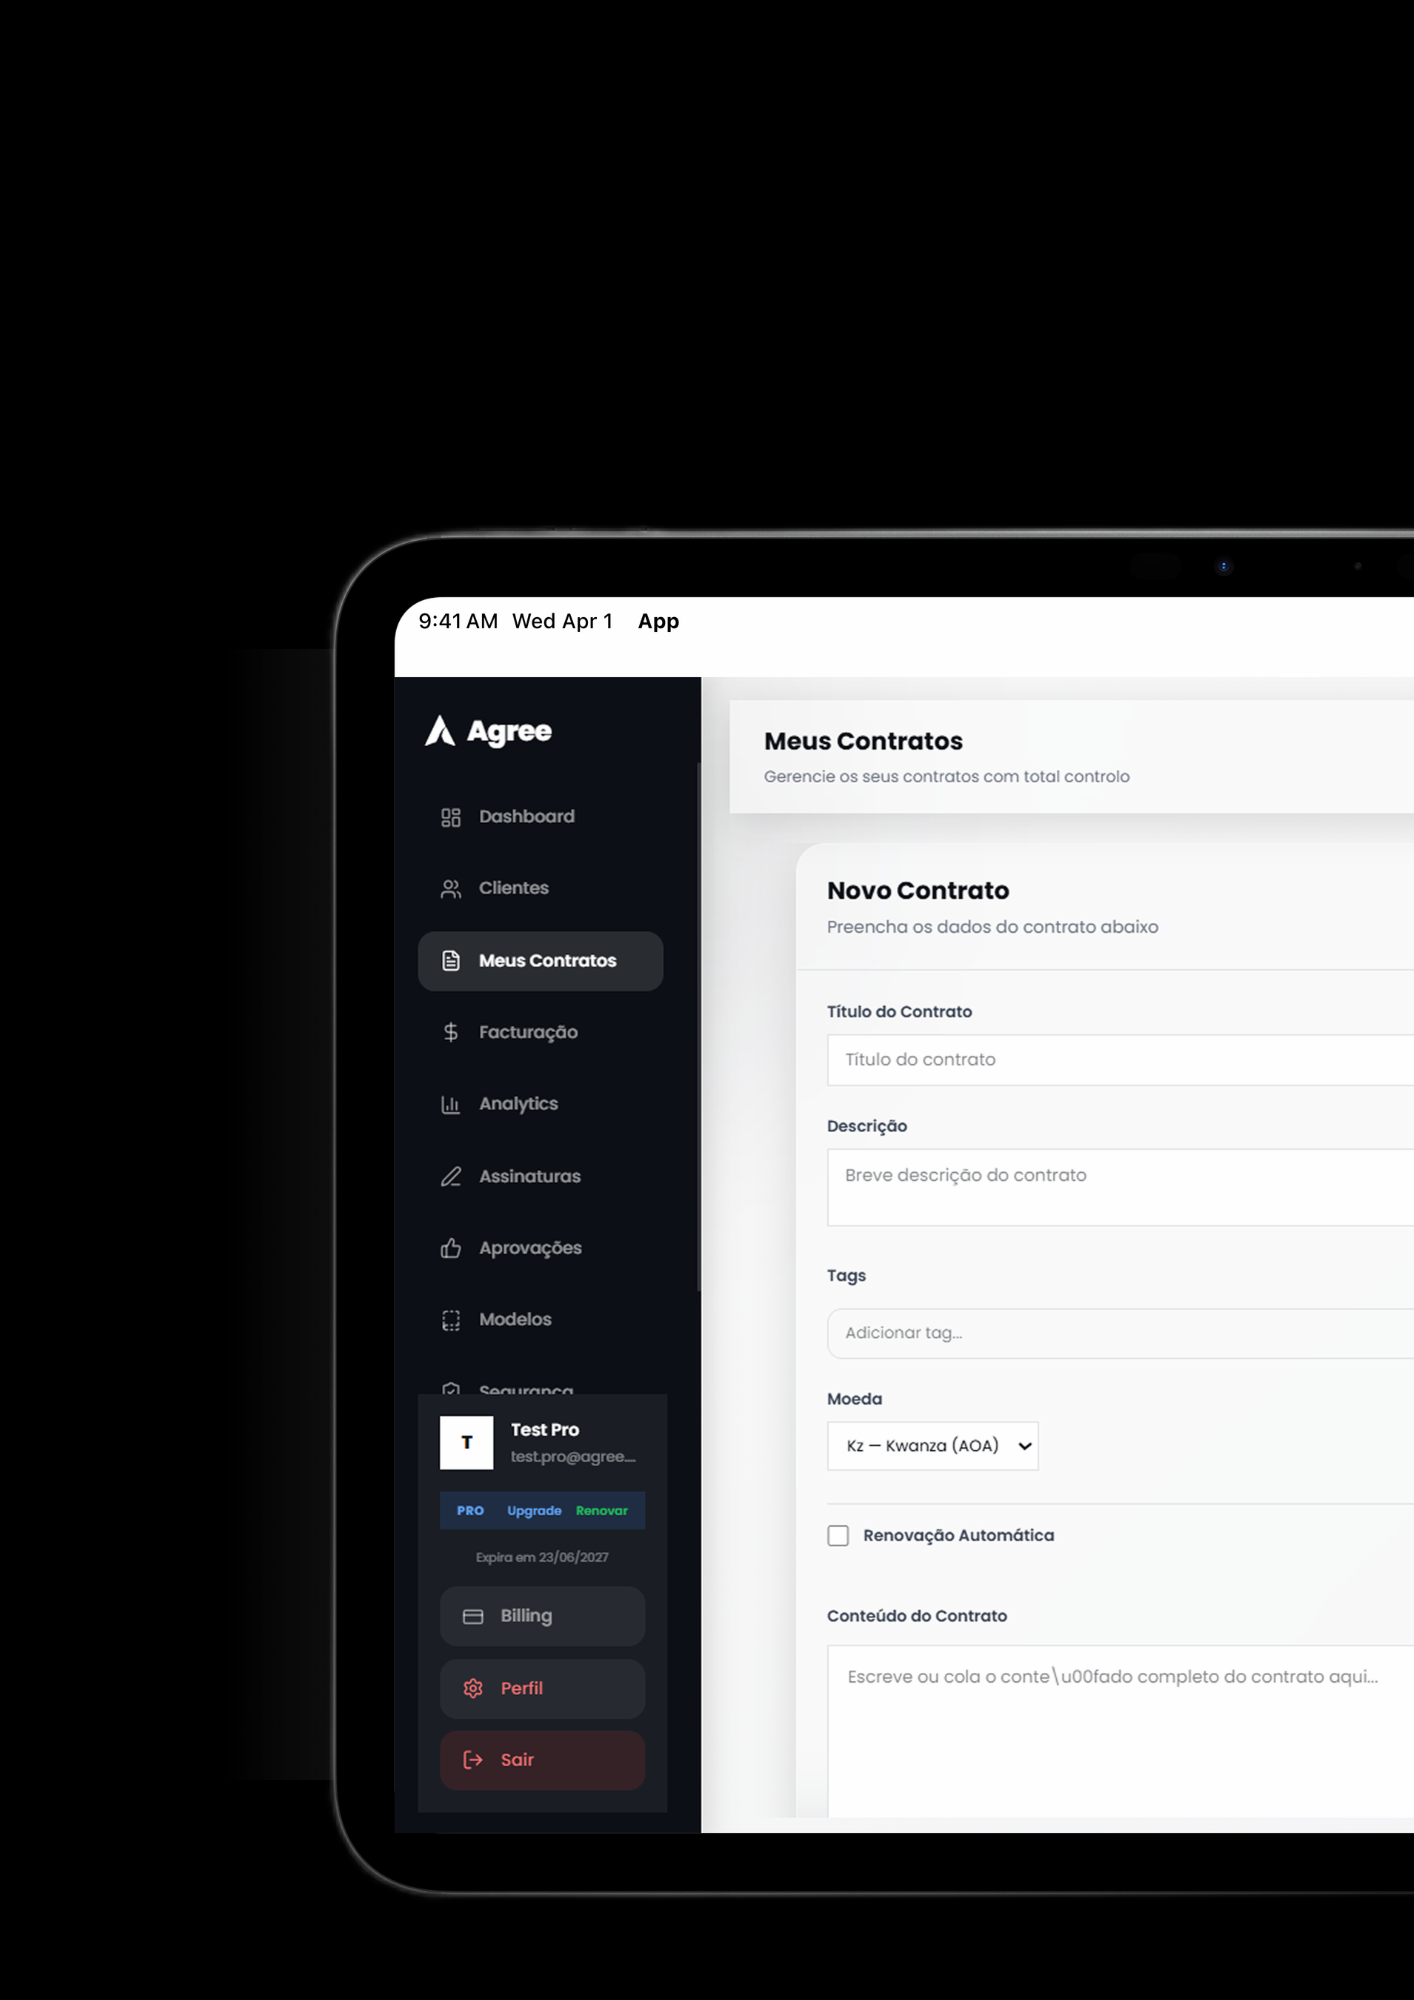
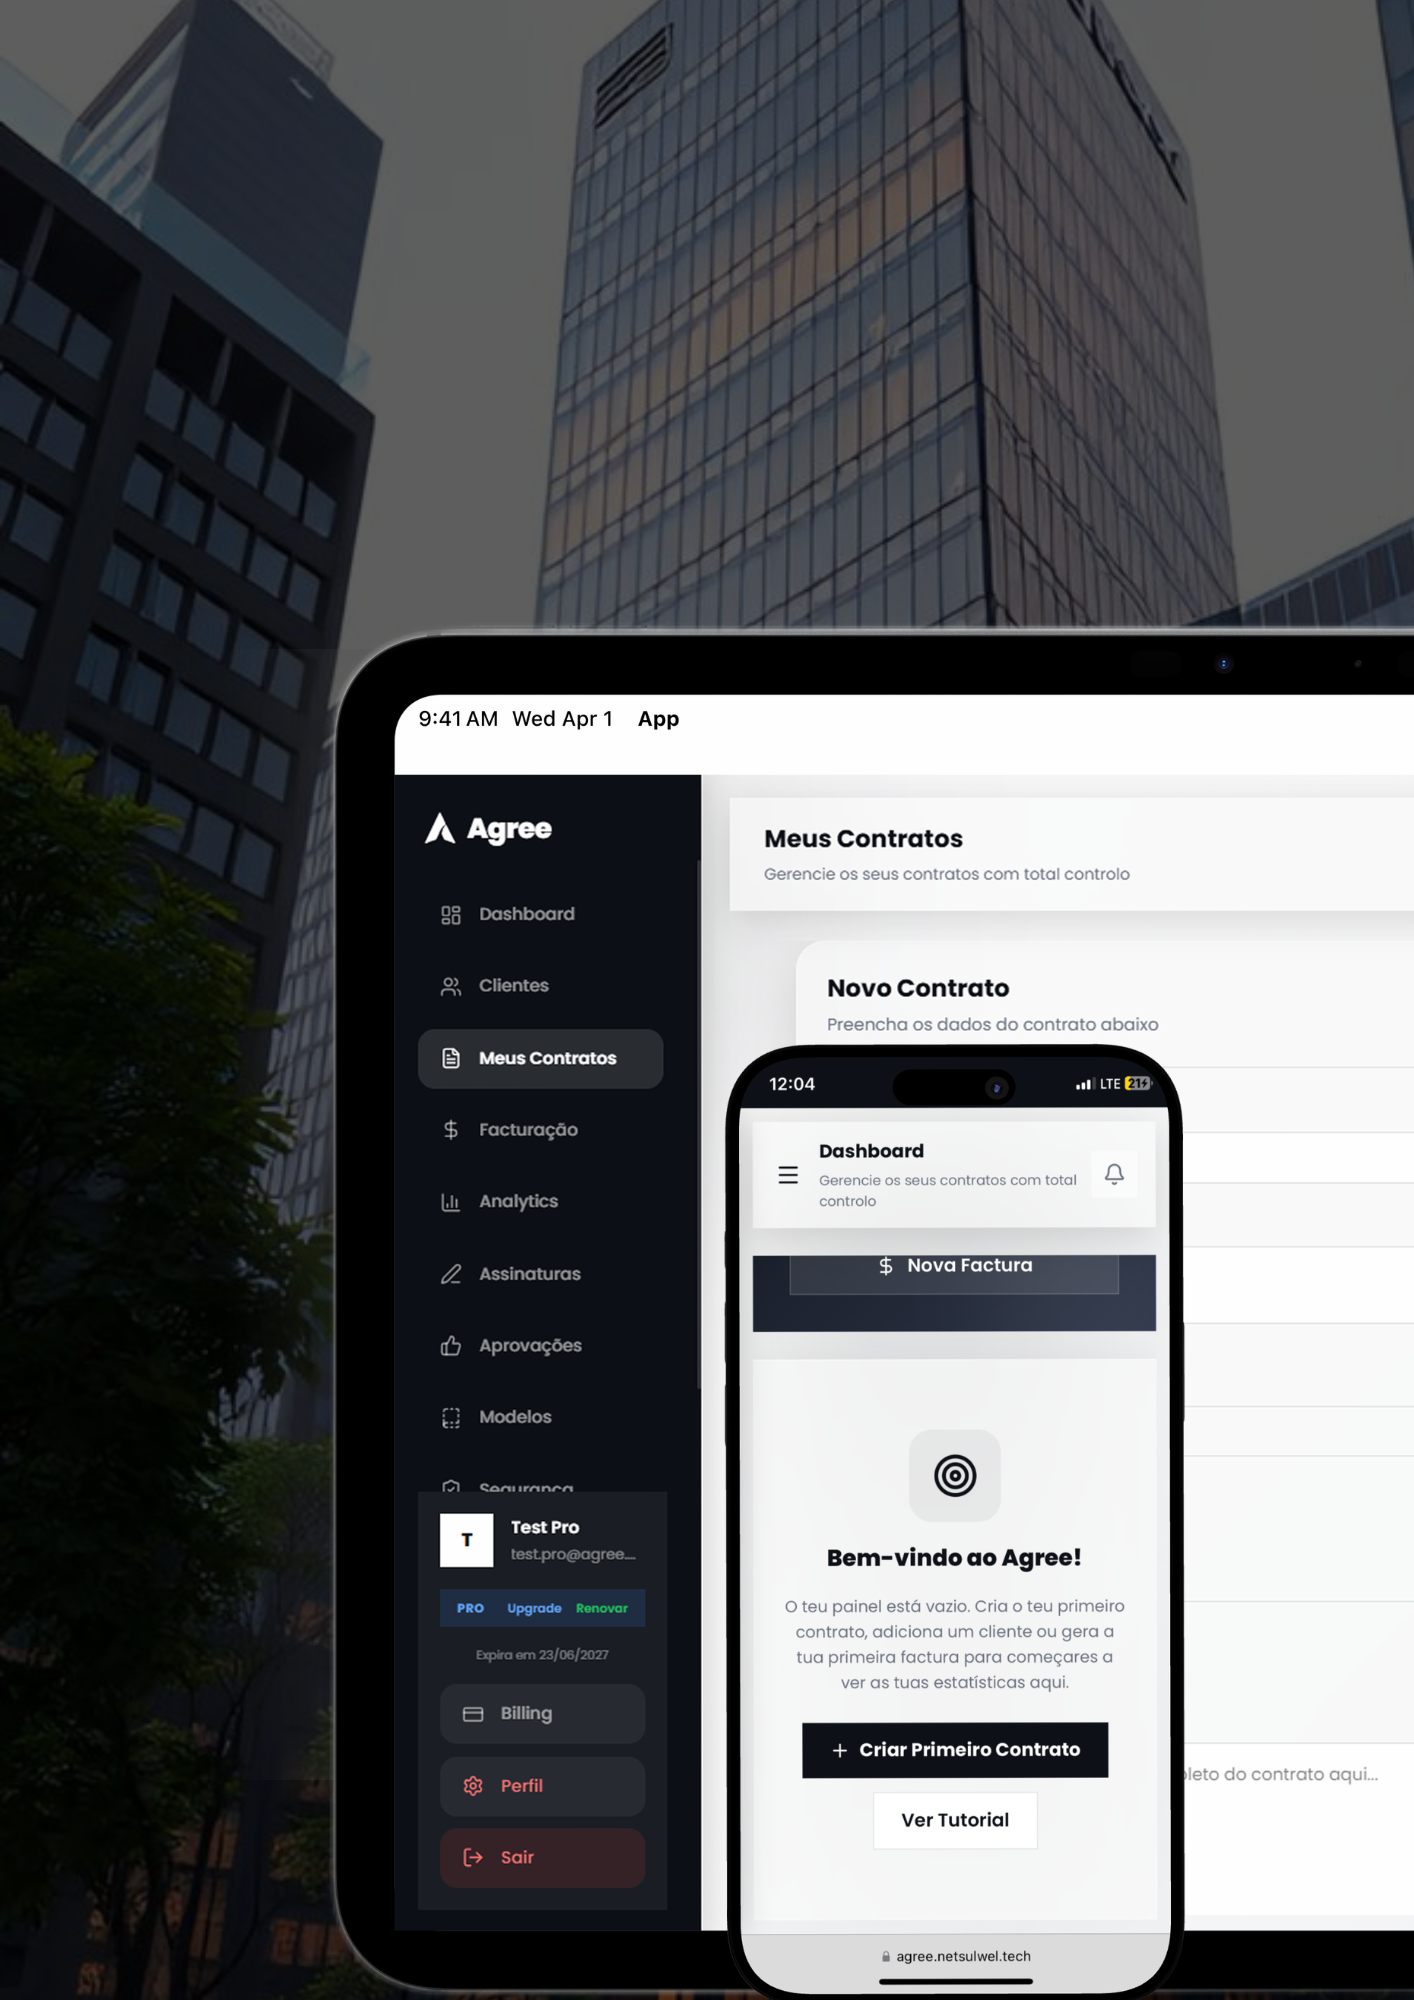
SEO: clarify app purpose on landing page for Google OAuth

diff --git a/src/components/LandingPage.tsx b/src/components/LandingPage.tsx
@@ -373,6 +373,12 @@ const LandingPage = () => {
         <div style={{ maxWidth: 1400, margin: '0 auto', padding: '0 24px' }}>
           <div className="hero-grid" style={{ display: 'grid', gridTemplateColumns: '1fr 1fr', gap: 64, alignItems: 'center', minHeight: '76vh' }}>
             <motion.div variants={heroContainer} initial="hidden" animate="show">
+              <motion.div variants={heroItem} style={{ marginBottom: 20 }}>
+                <span style={{ display: 'inline-block', padding: '7px 16px', border: '1px solid #e8eaed', background: '#fff', fontSize: 11, fontWeight: 700, letterSpacing: 1.4, textTransform: 'uppercase', color: '#0d1117', boxShadow: '0 2px 10px rgba(0,0,0,0.05)' }}>
+                  Plataforma de Gestão de Contratos
+                </span>
+              </motion.div>
+
               <motion.h1 className="hero-h" variants={heroItem} style={{ marginBottom: 22 }}>
                 <span style={{ display: 'block', overflow: 'hidden' }}><motion.span variants={heroLine} className="sheen-text" style={{ display: 'block' }}>O fim das</motion.span></span>
                 <span style={{ display: 'block', overflow: 'hidden' }}><motion.span variants={heroLine} className="sheen-text" style={{ display: 'block' }}>pastas de</motion.span></span>
@@ -380,7 +386,8 @@ const LandingPage = () => {
               </motion.h1>
 
               <motion.p variants={heroItem} className="sheen-text" style={{ fontSize: 17, lineHeight: 1.75, maxWidth: 430, marginBottom: 36, fontWeight: 400 }}>
-                Centraliza o portfólio, automatiza aprovações e nunca mais perdes um prazo de renovação.
+                O Agree é a plataforma de gestão de contratos que centraliza o teu portfólio,
+                automatiza aprovações, assinatura digital e nunca mais perdes um prazo de renovação.
               </motion.p>
 
               <motion.div variants={heroItem} className="hero-btns" style={{ display: 'flex', flexWrap: 'wrap', gap: 12, marginBottom: 52 }}>

diff --git a/index.html b/index.html
@@ -7,7 +7,28 @@
     <link rel="alternate icon" href="/favicon.ico" />
     <meta name="theme-color" content="#0d1117" />
     <meta name="msapplication-TileColor" content="#0d1117" />
+    <meta name="description" content="Agree é uma plataforma de gestão de contratos: cria, armazena, assina digitalmente e monitoriza renovações num só lugar, com aprovações automatizadas." />
+    <meta property="og:type" content="website" />
+    <meta property="og:site_name" content="Agree" />
+    <meta property="og:title" content="Agree | Gestão de Contratos" />
+    <meta property="og:description" content="Plataforma de gestão de contratos: cria, assina digitalmente e monitoriza renovações num só lugar." />
+    <meta property="og:url" content="https://agree.netsulwel.tech/" />
+    <meta name="twitter:card" content="summary" />
+    <meta name="twitter:title" content="Agree | Gestão de Contratos" />
+    <meta name="twitter:description" content="Plataforma de gestão de contratos: cria, assina digitalmente e monitoriza renovações num só lugar." />
     <title>Agree | Gestão de Contratos</title>
+    <script type="application/ld+json">
+    {
+      "@context": "https://schema.org",
+      "@type": "SoftwareApplication",
+      "name": "Agree",
+      "applicationCategory": "BusinessApplication",
+      "operatingSystem": "Web",
+      "description": "Plataforma SaaS de gestão de contratos: criação, armazenamento, assinatura digital e monitorização de renovações.",
+      "url": "https://agree.netsulwel.tech/",
+      "offers": { "@type": "Offer", "price": "0", "priceCurrency": "AOA" }
+    }
+    </script>
     <script>
       // Fix for "Cannot set property fetch of #<Window> which has only a getter"
       // This script must run as early as possible to intercept assignments to window.fetch.
